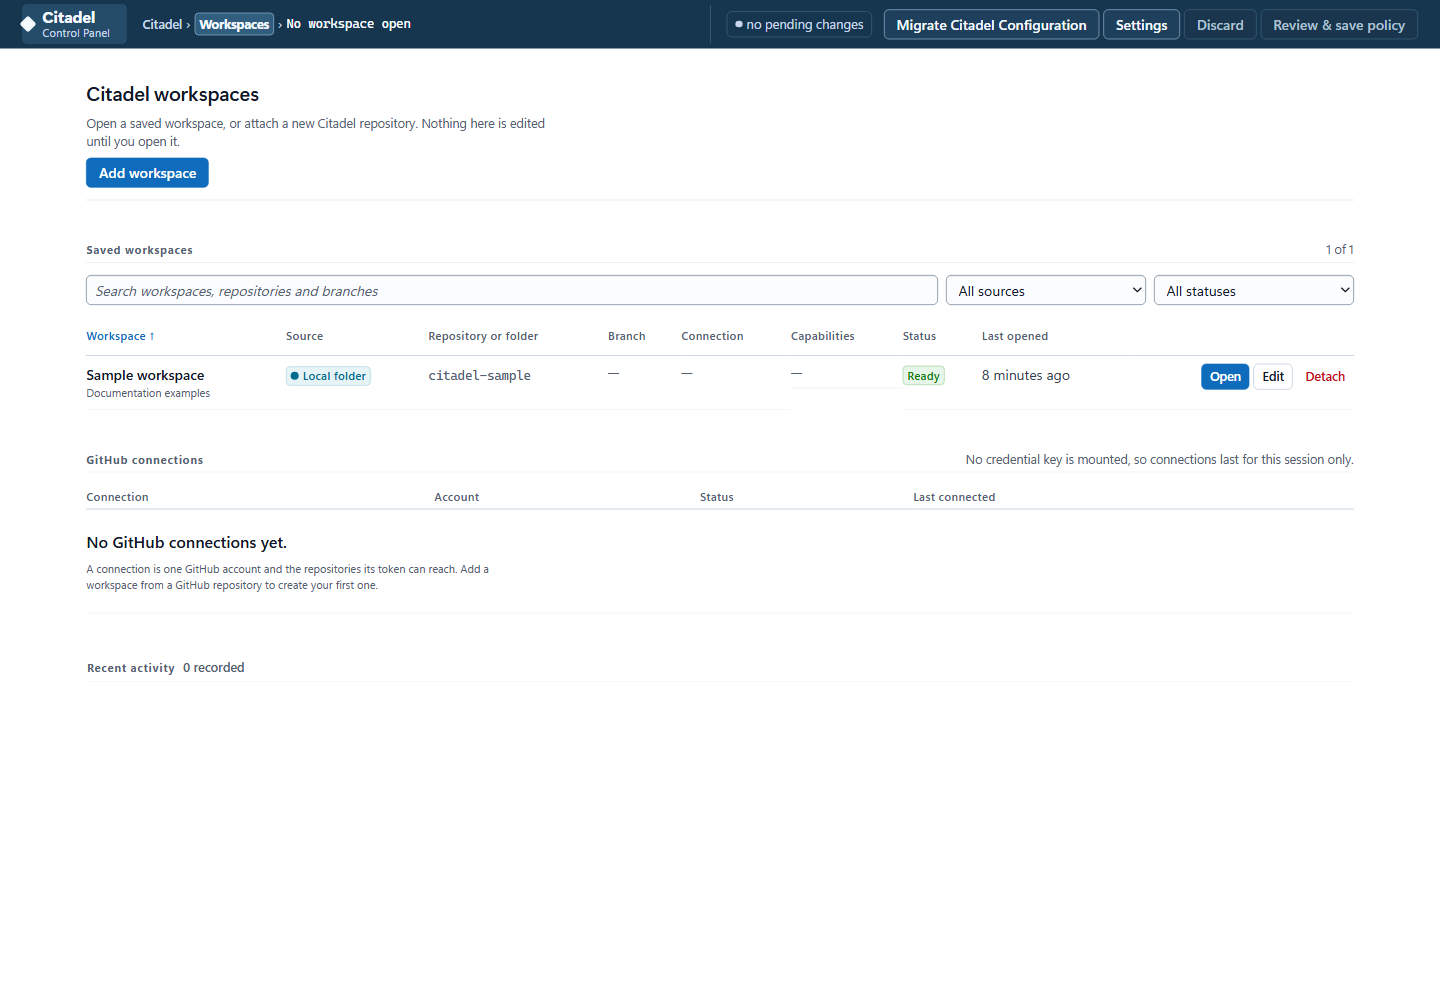
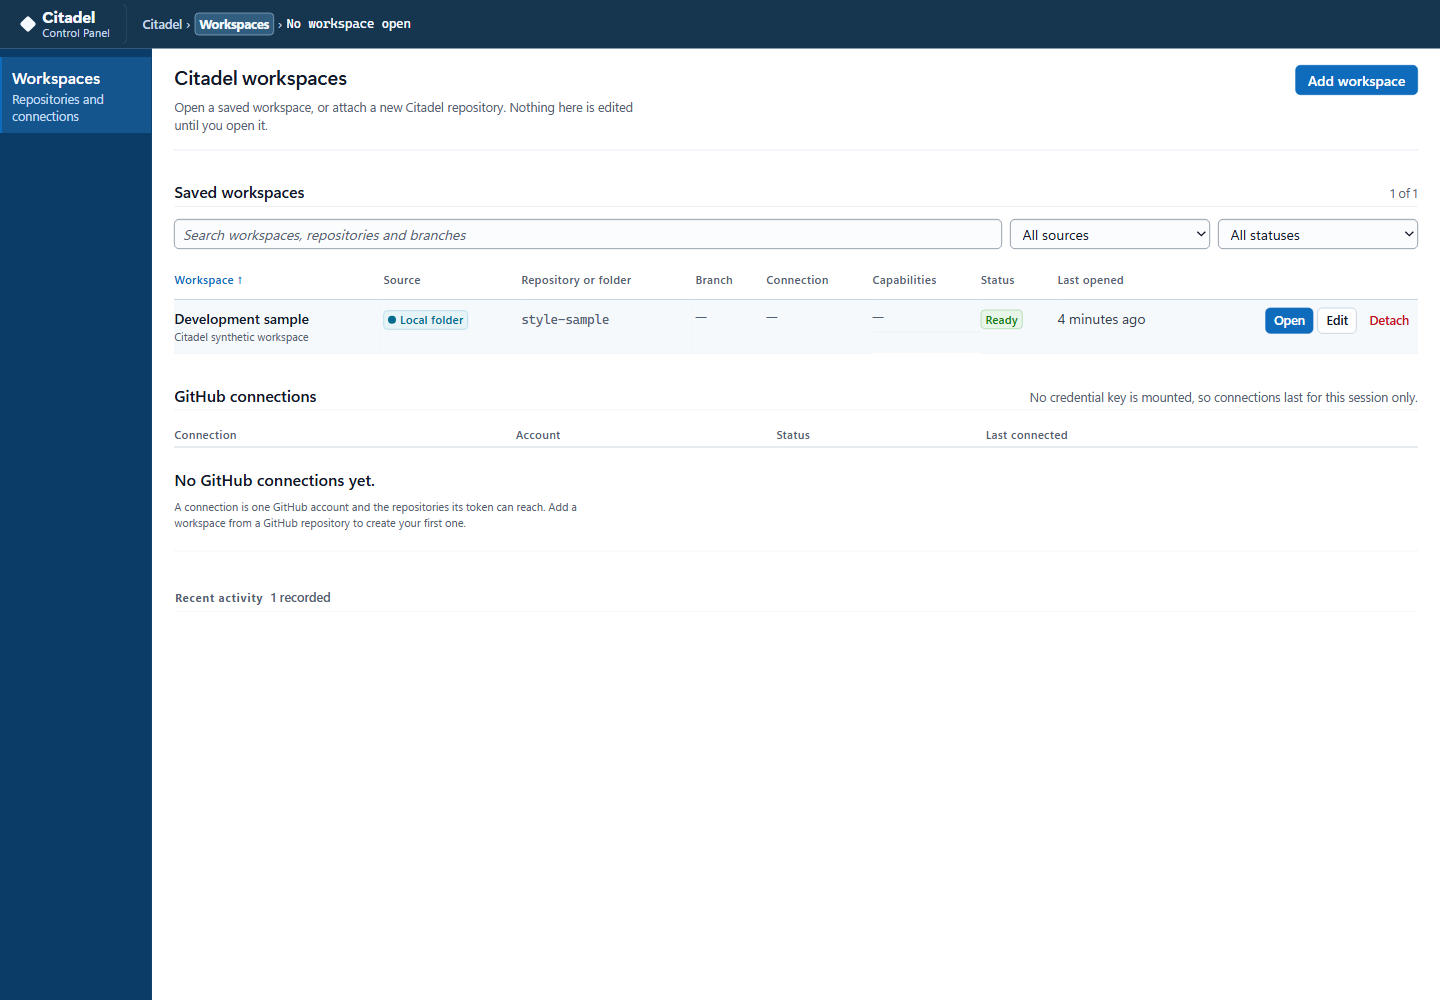
Style owner access and the workspace frame
Carry the approved Citadel masthead, area rail, ruled surface and shared controls through claim, sign-in and the workspace catalog. Keep editor commands clear of long context labels, and keep the unauthenticated shell inert with a single busy submission.

Authentication routes, account storage, editor/save behavior and Terraform mapping remain unchanged. Refresh only owner and catalog guide images. Desktop synthetic journeys cover normal auth, saved-source editing and dialog return; no production activation or native folder-picker claim. Focused regressions retain one unchanged-base catalog source assertion that predates the export guard.

diff --git a/CitadelUI/web/css/components.css b/CitadelUI/web/css/components.css
@@ -5423,7 +5423,10 @@
 }
 
 .tb-crumb {
-  flex: none;
+  flex: 0 1 auto;
+  overflow: hidden;
+  text-overflow: ellipsis;
+  white-space: nowrap;
   color: var(--nav-muted);
   font-size: var(--t-small);
   font-weight: 600;
@@ -6214,17 +6217,19 @@
 
 .workspace-catalog {
   display: grid;
-  gap: var(--sp-8);
+  gap: var(--sp-7);
   align-content: start;
-  width: min(100%, 82rem);
-  margin: var(--sp-8) auto var(--sp-9);
+  width: min(100%, 128rem);
+  margin: var(--sp-6) auto var(--sp-9);
   padding-inline: var(--gutter);
 }
 
 .catalog-head {
   display: grid;
-  gap: var(--sp-4);
-  padding-bottom: var(--sp-5);
+  grid-template-columns: minmax(0, 1fr) auto;
+  gap: var(--sp-4) var(--sp-7);
+  align-items: start;
+  padding-bottom: var(--sp-6);
   border-bottom: 1px solid var(--rule);
 }
 
@@ -6238,13 +6243,24 @@
 }
 
 .catalog-head > .hint {
+  grid-column: 1;
   max-width: 72ch;
 }
 
 .catalog-head-actions {
+  grid-column: 2;
+  grid-row: 1 / span 2;
   display: flex;
   flex-wrap: wrap;
   gap: var(--sp-4);
+}
+
+.catalog-head-actions:empty {
+  display: none;
+}
+
+.catalog-head > :is(.catalog-progress, .catalog-error, .field-error) {
+  grid-column: 1 / -1;
 }
 
 .catalog-section {
@@ -6267,11 +6283,10 @@
 
 .catalog-section-head h2 {
   margin: 0;
-  font-family: var(--sans-small);
-  font-size: var(--t-micro);
-  font-weight: 700;
-  letter-spacing: 0.06em;
-  color: var(--ink-3);
+  font-family: var(--sans);
+  font-size: var(--t-h3);
+  font-weight: 600;
+  color: var(--ink-1);
 }
 
 .catalog-filters {
@@ -7046,132 +7061,87 @@
 /* ============================================================
    Owner gate
    The first screen on an unclaimed container and the only screen
-   on a claimed one until the owner signs in. Deliberately plain:
-   it is a door, not a dashboard, and it must render correctly
-   before any application state exists.
-   Sized in rem and ch like every other surface here, so the 1px
-   hairlines below are the only pixel values -- they are the
-   design system's rule weight, not layout.
+   on a claimed one until the owner signs in. The same masthead,
+   area rail and ruled sheet as the workspace, without workspace
+   actions or data before authentication.
    ============================================================ */
 .gate {
   position: fixed;
   inset: 0;
   z-index: 9999;
   display: grid;
-  place-items: center;
-  padding: 2rem 1.25rem;
-  background: var(--nav);
-  overflow: auto;
+  grid-template-columns: var(--rail-areas) minmax(0, 1fr);
+  grid-template-rows: auto minmax(0, 1fr);
+  grid-template-areas: 'title title' 'areas sheet';
+  background: var(--sheet);
 }
 
 .gate-panel {
-  width: min(32ch + 12rem, 100%);
-  background: var(--sheet);
-  border: 1px solid var(--rule);
-  border-radius: 0.5rem;
-  box-shadow: 0 1.5rem 3rem rgba(11, 60, 104, 0.35);
-  padding: clamp(1.5rem, 4vw, 2.25rem);
+  grid-area: sheet;
+  min-width: 0;
+  min-height: 0;
+  overflow-y: auto;
+  padding: var(--sp-6) var(--gutter) var(--sp-8);
 }
 
-.gate-brand {
-  display: flex;
-  align-items: center;
-  gap: 0.6rem;
-  margin-bottom: 1.25rem;
+.gate-masthead {
+  grid-template-columns: max-content minmax(0, 1fr);
 }
 
-.gate-mark {
-  width: 1.4rem;
-  height: 1.4rem;
-  border-radius: 0.2rem;
-  background: var(--brand);
-  flex: none;
-}
-
-.gate-brand-name {
-  font-size: 0.85rem;
-  font-weight: 600;
-  letter-spacing: 0.04em;
-  text-transform: uppercase;
-  color: var(--ink-3);
+.gate-introduction {
+  padding-bottom: var(--sp-6);
+  margin-bottom: var(--sp-7);
+  border-bottom: 1px solid var(--rule);
 }
 
 .gate-title {
-  margin: 0 0 0.5rem;
-  font-size: clamp(1.25rem, 2.5vw, 1.6rem);
+  margin: 0 0 var(--sp-4);
+  font-size: var(--t-h1);
   color: var(--ink-1);
 }
 
 .gate-blurb {
-  margin: 0 0 1.5rem;
-  color: var(--ink-2);
-  line-height: 1.5;
-  font-size: 0.925rem;
+  max-width: 75ch;
+  color: var(--ink-3);
 }
 
 .gate-form {
   display: grid;
-  gap: 1rem;
+  gap: var(--sp-6);
+  max-width: var(--w-long);
 }
 
 .gate-field {
   display: grid;
-  gap: 0.35rem;
+  gap: var(--sp-4);
 }
 
 .gate-label {
-  font-size: 0.85rem;
+  font-size: var(--t-body);
   font-weight: 600;
   color: var(--ink-2);
 }
 
 .gate-hint {
-  font-size: 0.8rem;
+  font-size: var(--t-small);
   color: var(--ink-3);
 }
 
 .gate-input {
-  font: inherit;
-  padding: 0.55rem 0.7rem;
-  border: 1px solid var(--control-stroke);
-  border-radius: 0.25rem;
-  background: var(--sheet);
-  color: var(--ink-1);
-}
-
-.gate-input:focus-visible {
-  outline: 0.125rem solid var(--brand);
-  outline-offset: 1px;
-  border-color: var(--brand);
+  width: 100%;
+  font-family: var(--sans);
 }
 
 .gate-error {
   margin: 0;
-  padding: 0.6rem 0.75rem;
+  padding: var(--sp-5) var(--sp-6);
   border: 1px solid var(--danger-line);
-  border-radius: 0.25rem;
+  border-radius: var(--r-1);
   background: var(--danger-wash);
   color: var(--danger-ink);
-  font-size: 0.9rem;
+  font-size: var(--t-body);
 }
 
 .gate-submit {
-  font: inherit;
-  font-weight: 600;
-  padding: 0.6rem 1rem;
-  border: 1px solid transparent;
-  border-radius: 0.25rem;
-  background: var(--brand);
-  color: var(--on-brand);
-  cursor: pointer;
-}
-
-.gate-submit:hover:not(:disabled) {
-  background: var(--brand-hover);
-}
-
-.gate-submit:disabled {
-  background: var(--sunk);
-  color: var(--ink-3);
-  cursor: default;
+  justify-self: start;
 }

diff --git a/CitadelUI/web/css/app.css b/CitadelUI/web/css/app.css
@@ -321,14 +321,21 @@ textarea {
 }
 
 .shell[data-workspace='setup'] {
-  grid-template-columns: minmax(0, 1fr);
-  grid-template-areas:
-    'title'
-    'sheet';
+  --ctx-track: 0px;
 }
 
-.shell[data-workspace='setup'] .rail {
+.shell .catalog-rail,
+.shell[data-workspace='setup'] .rail:not(.catalog-rail) {
   display: none;
+}
+
+.shell[data-workspace='setup'] .catalog-rail {
+  display: flex;
+}
+
+.catalog-rail .area,
+.gate-rail .area {
+  cursor: default;
 }
 
 /* Under ~1100px the two rails cannot both hold their labels at full width, so

diff --git a/CitadelUI/web/index.html b/CitadelUI/web/index.html
@@ -60,6 +60,13 @@
 
       <nav id="sidebar" class="rail rail-areas" aria-label="Deployment areas"></nav>
 
+      <aside class="rail rail-areas catalog-rail" aria-label="Workspace overview">
+        <div class="area active">
+          <span class="area-title">Workspaces</span>
+          <span class="area-sub">Repositories and connections</span>
+        </div>
+      </aside>
+
       <aside id="context-rail" class="rail rail-context" aria-label="Section index"></aside>
 
       <main id="workspace" class="sheet" tabindex="-1"></main>
